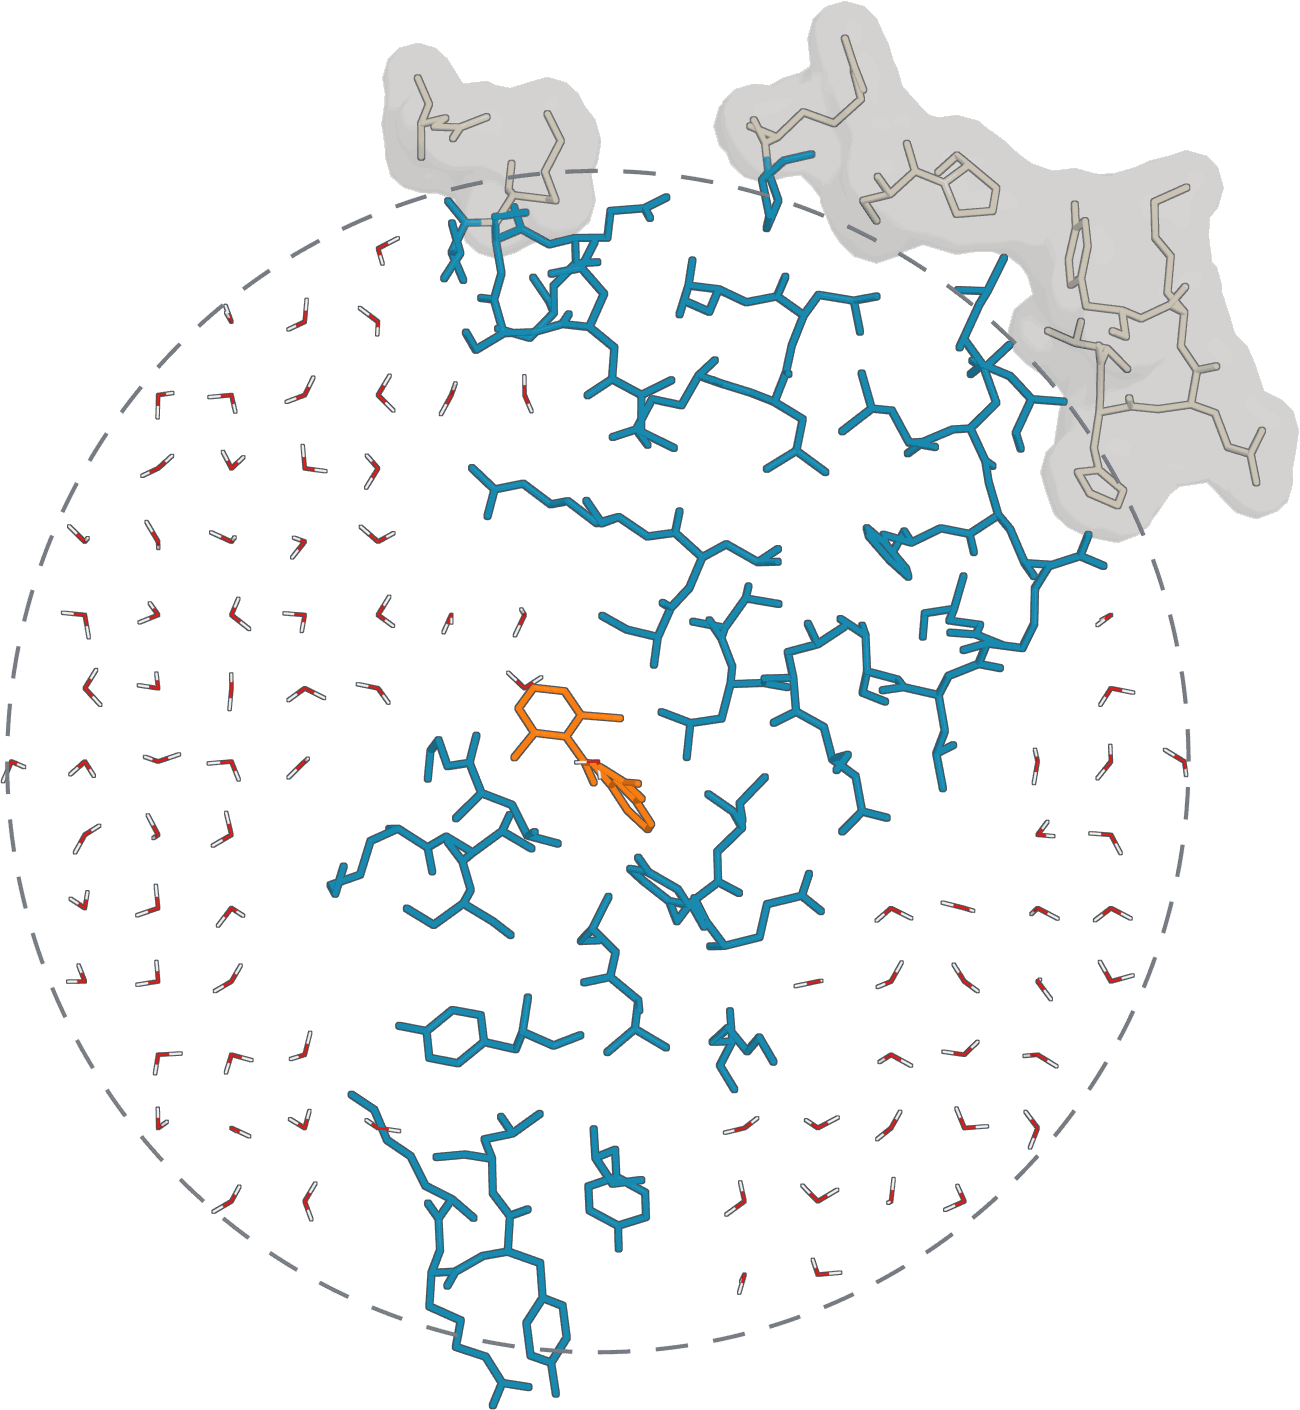
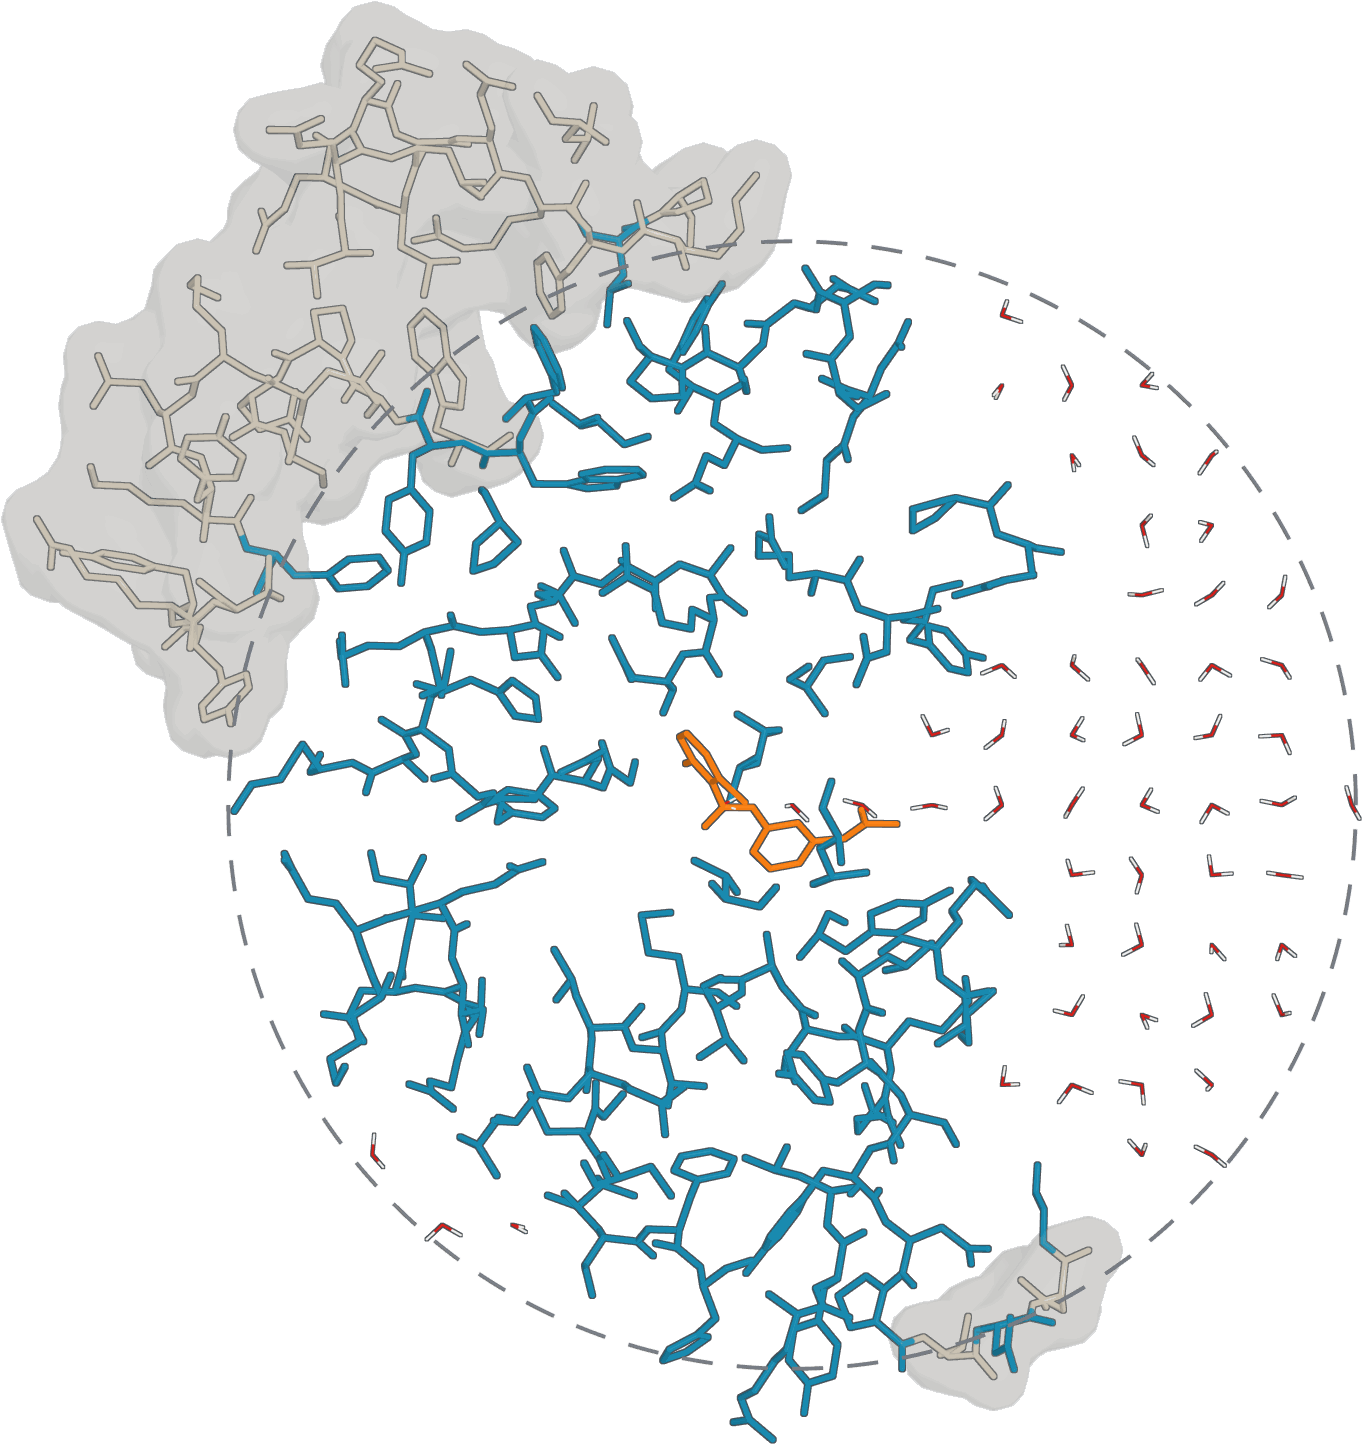
docs(figures): use the thicker x slab for the sphere regions

diff --git a/docs/scripts/render_sphere_regions.py b/docs/scripts/render_sphere_regions.py
@@ -34,9 +34,9 @@ from PIL import Image, ImageFilter
 from pymol import cgo, cmd
 
 OUT = Path(__file__).resolve().parents[1] / "source" / "_static" / "figures" / "sphere-regions.png"
-NORMAL = (0.0, 1.0, 0.0)  # the slab is perpendicular to this axis; the camera looks along it
+NORMAL = (1.0, 0.0, 0.0)  # the slab is perpendicular to this axis; the camera looks along it
 UP = (0.0, 0.0, 1.0)
-HALF_SLAB = 1.8  # A on each side of the plane through the centre
+HALF_SLAB = 3.0  # A on each side of the plane through the centre
 STICK_RADIUS = 0.13  # A, protein, water and ligand
 FREE = (0.10, 0.55, 0.70)  # blue
 EXCLUDED = (0.79, 0.76, 0.70)  # pale sand; also the colour of its surface

diff --git a/docs/source/concepts/spherical-boundary.md b/docs/source/concepts/spherical-boundary.md
@@ -77,14 +77,14 @@ See [Boundary conditions](../manual/reference/boundaries.md#solute-boundary-rest
 :alt: Slab through a protein with a dashed circle of 25 angstrom radius around the ligand. Protein residues inside the circle are blue sticks, protein residues outside it are pale sticks inside a translucent grey surface, water molecules fill the rest of the circle, and the ligand is orange near the centre.
 :width: 70%
 
-A 3.6 Å thick slab through the centre of a Tyk2 sphere, seen along the slab
+A 6 Å thick slab through the centre of a Tyk2 sphere, seen along the slab
 normal. Tyk2 is the protein of the [tutorial](../tutorials/tyk2.md); the
 structure is the one of the QligFEP benchmark set. Dashed circle: the sphere
 radius of 25 Å. Blue: free solute. Pale sticks inside a grey surface:
 excluded solute, which is kept fixed and has no non-bonded interactions. Red
 and white: water, on the lattice on which `qprep` places it, before any
 dynamics. Orange: a ligand (`ejm_31`). Hydrogens are drawn for water only.
-The slab contains 46 free and 10 excluded residues and 86 water molecules;
+The slab contains 78 free and 29 excluded residues and 54 water molecules;
 the whole structure has 190 free and 98 excluded residues. A residue is one
 charge group in this force field, so residues are free or excluded as a
 whole, and a free residue can reach across the circle. Rendered by
